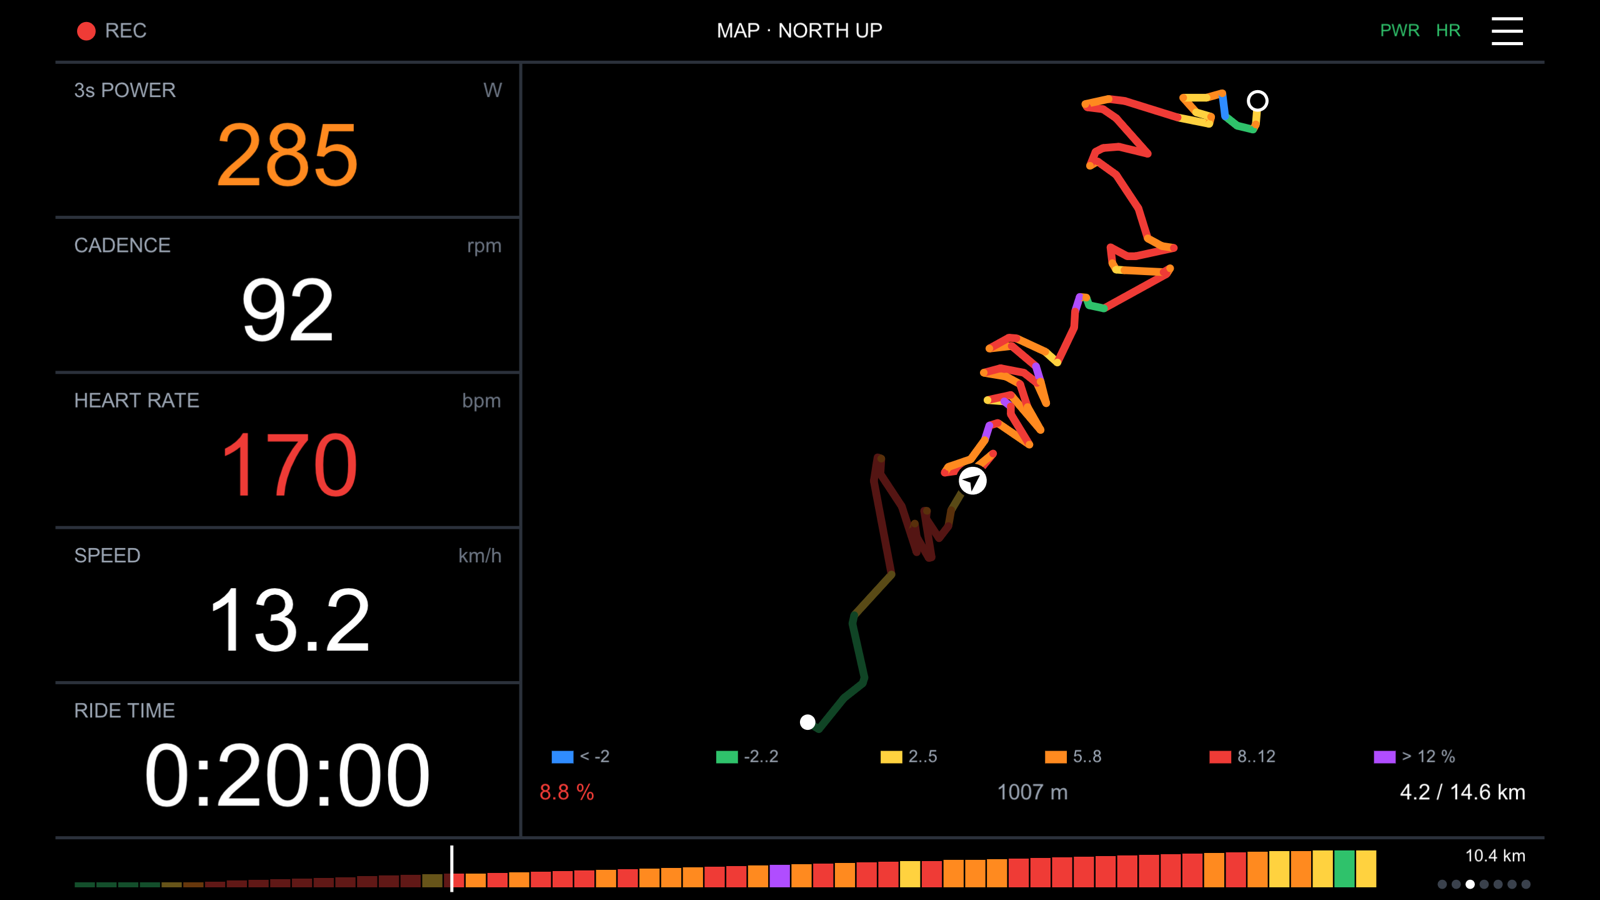
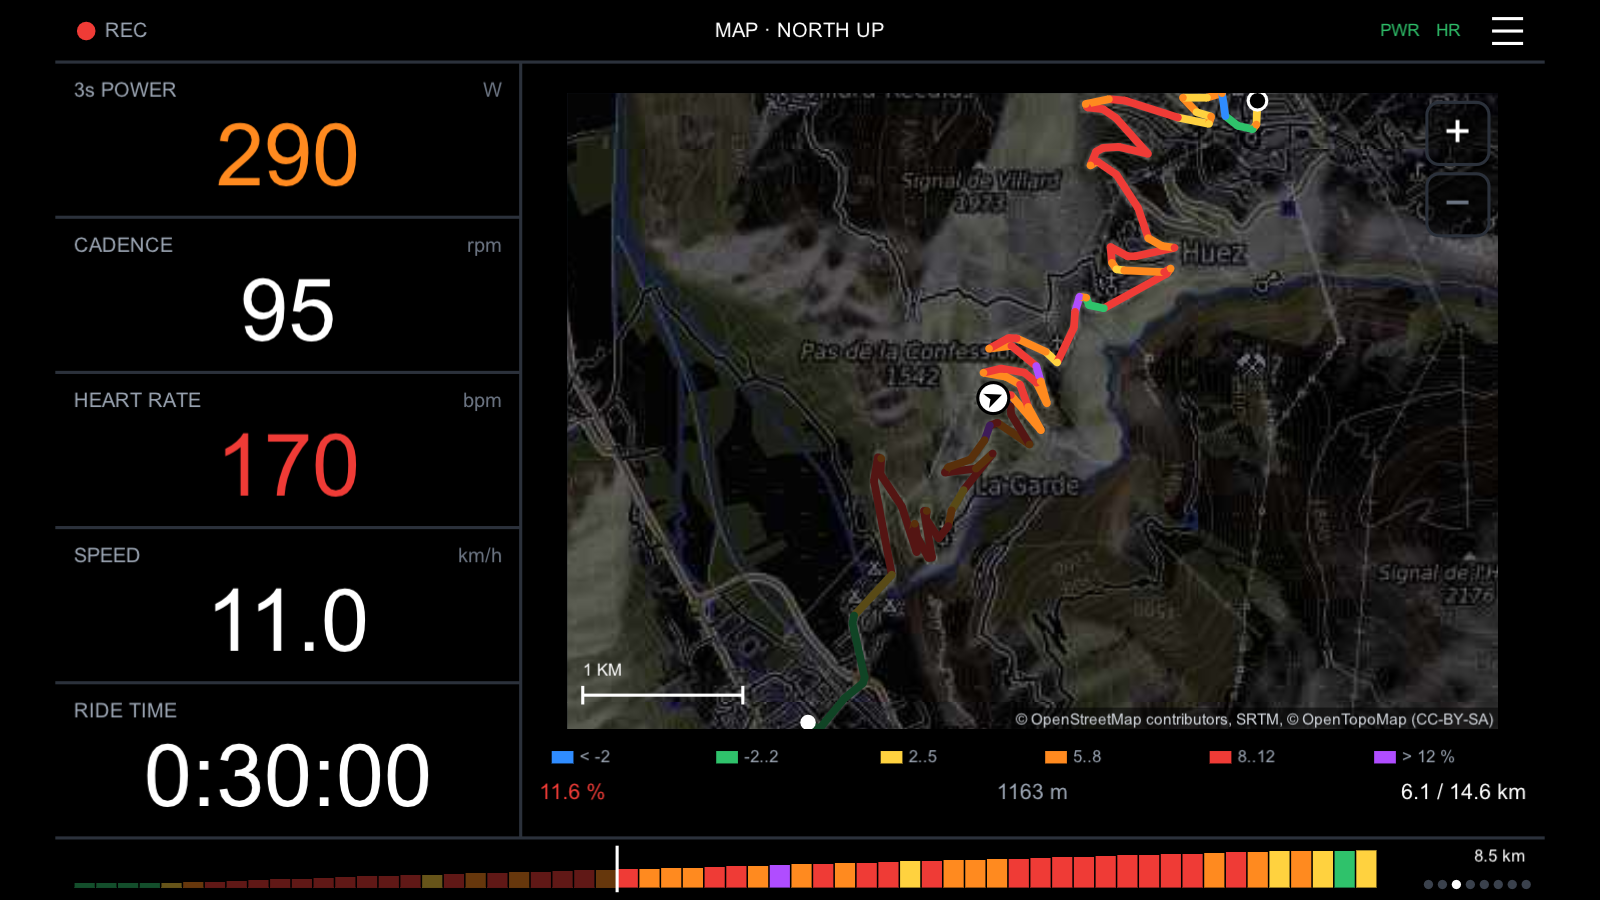
Updated image for page with map.

diff --git a/index.html b/index.html
@@ -694,11 +694,11 @@
             <span class="tag" style="color: var(--z2)">Phones and tablets</span>
             <h3>Big numbers you can read mid-interval.</h3>
             <p>Power with its zone, cadence, speed, heart rate and the trainer's
-              resistance, plus the route on a map and the last five minutes as graphs. On a tablet in landscape your
+              resistance, plus the route on a topographic map and the last five minutes as graphs. On a tablet in landscape your
               ride's numbers stay beside every page. The screen stays on while you ride.</p>
           </div>
           <div class="tablet"><img src="images/tablet-1.png" width="1600" height="900" loading="lazy"
-              alt="Tablet layout: power, cadence, heart rate, speed and ride time beside a map of the Alpe d'Huez hairpins">
+              alt="Tablet layout: power, cadence, heart rate, speed and ride time beside a topographic map of the Alpe d'Huez hairpins, the route colored by grade">
           </div>
         </div>
       </div>
